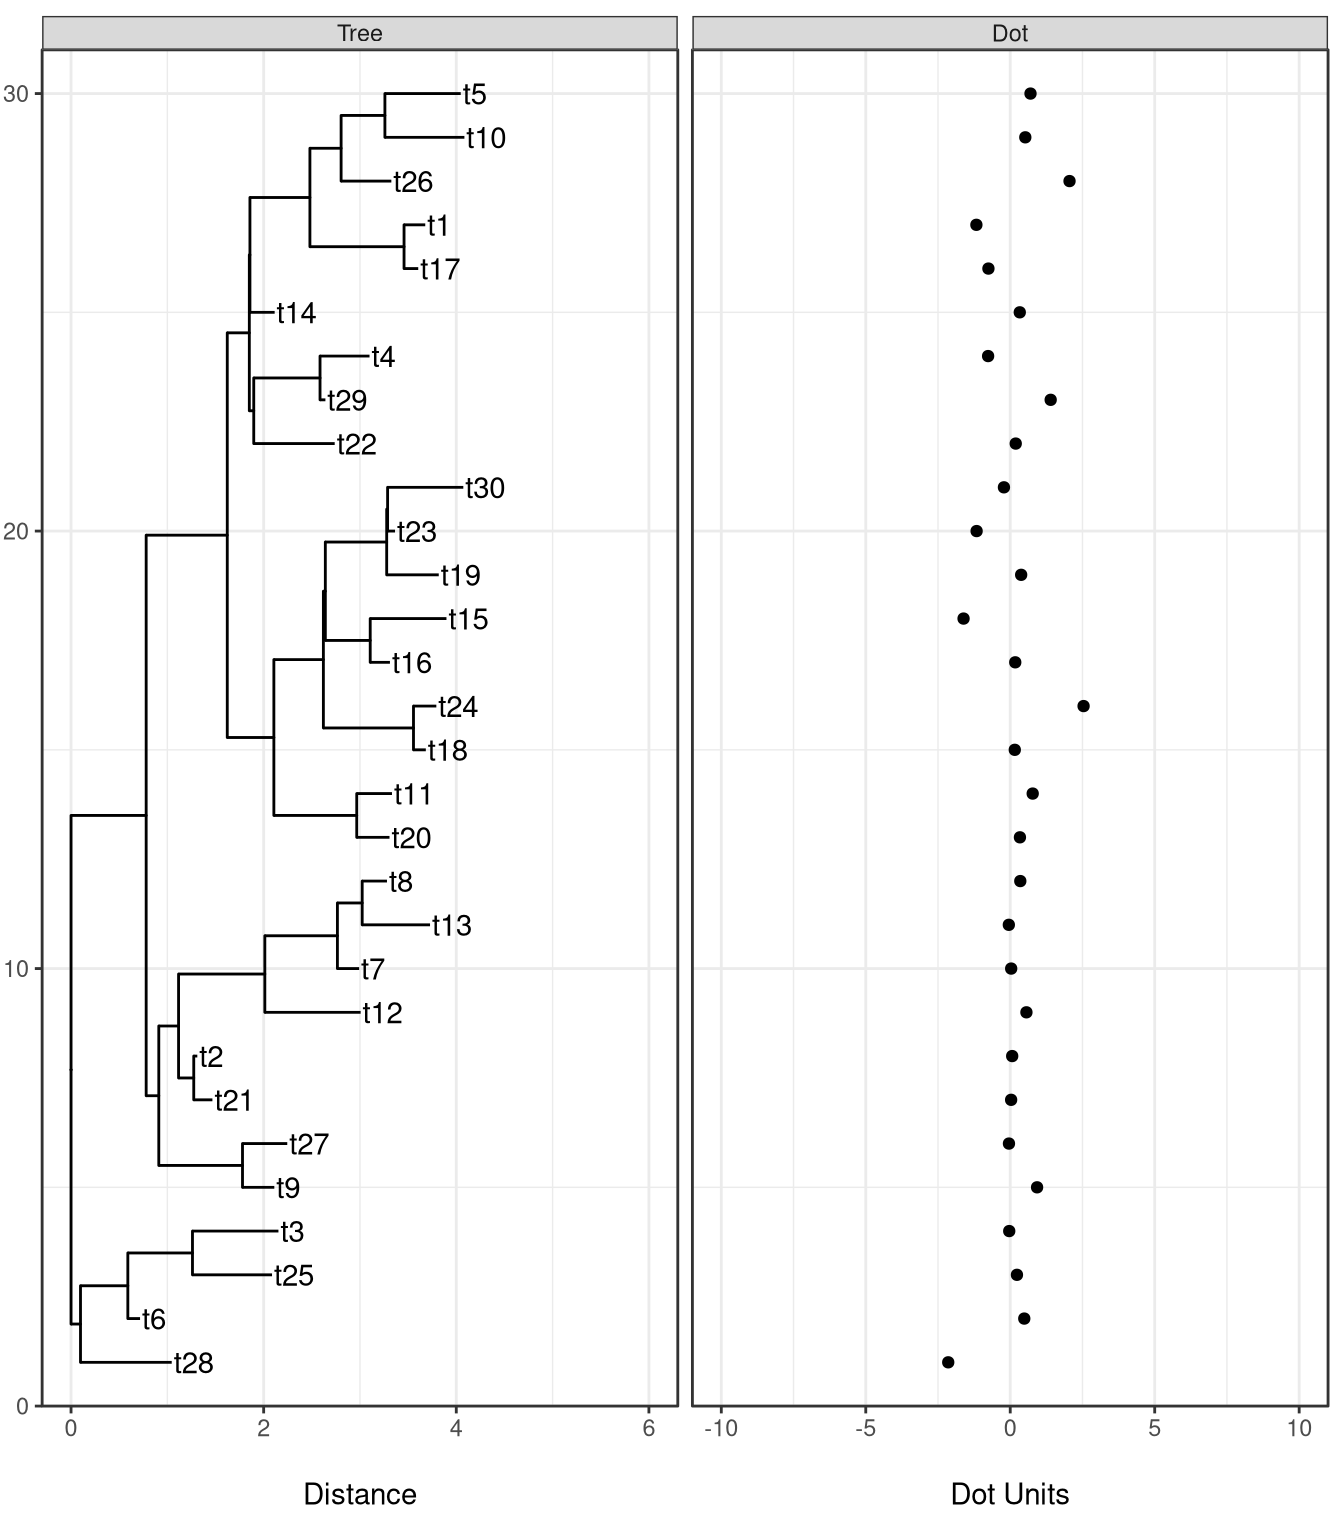
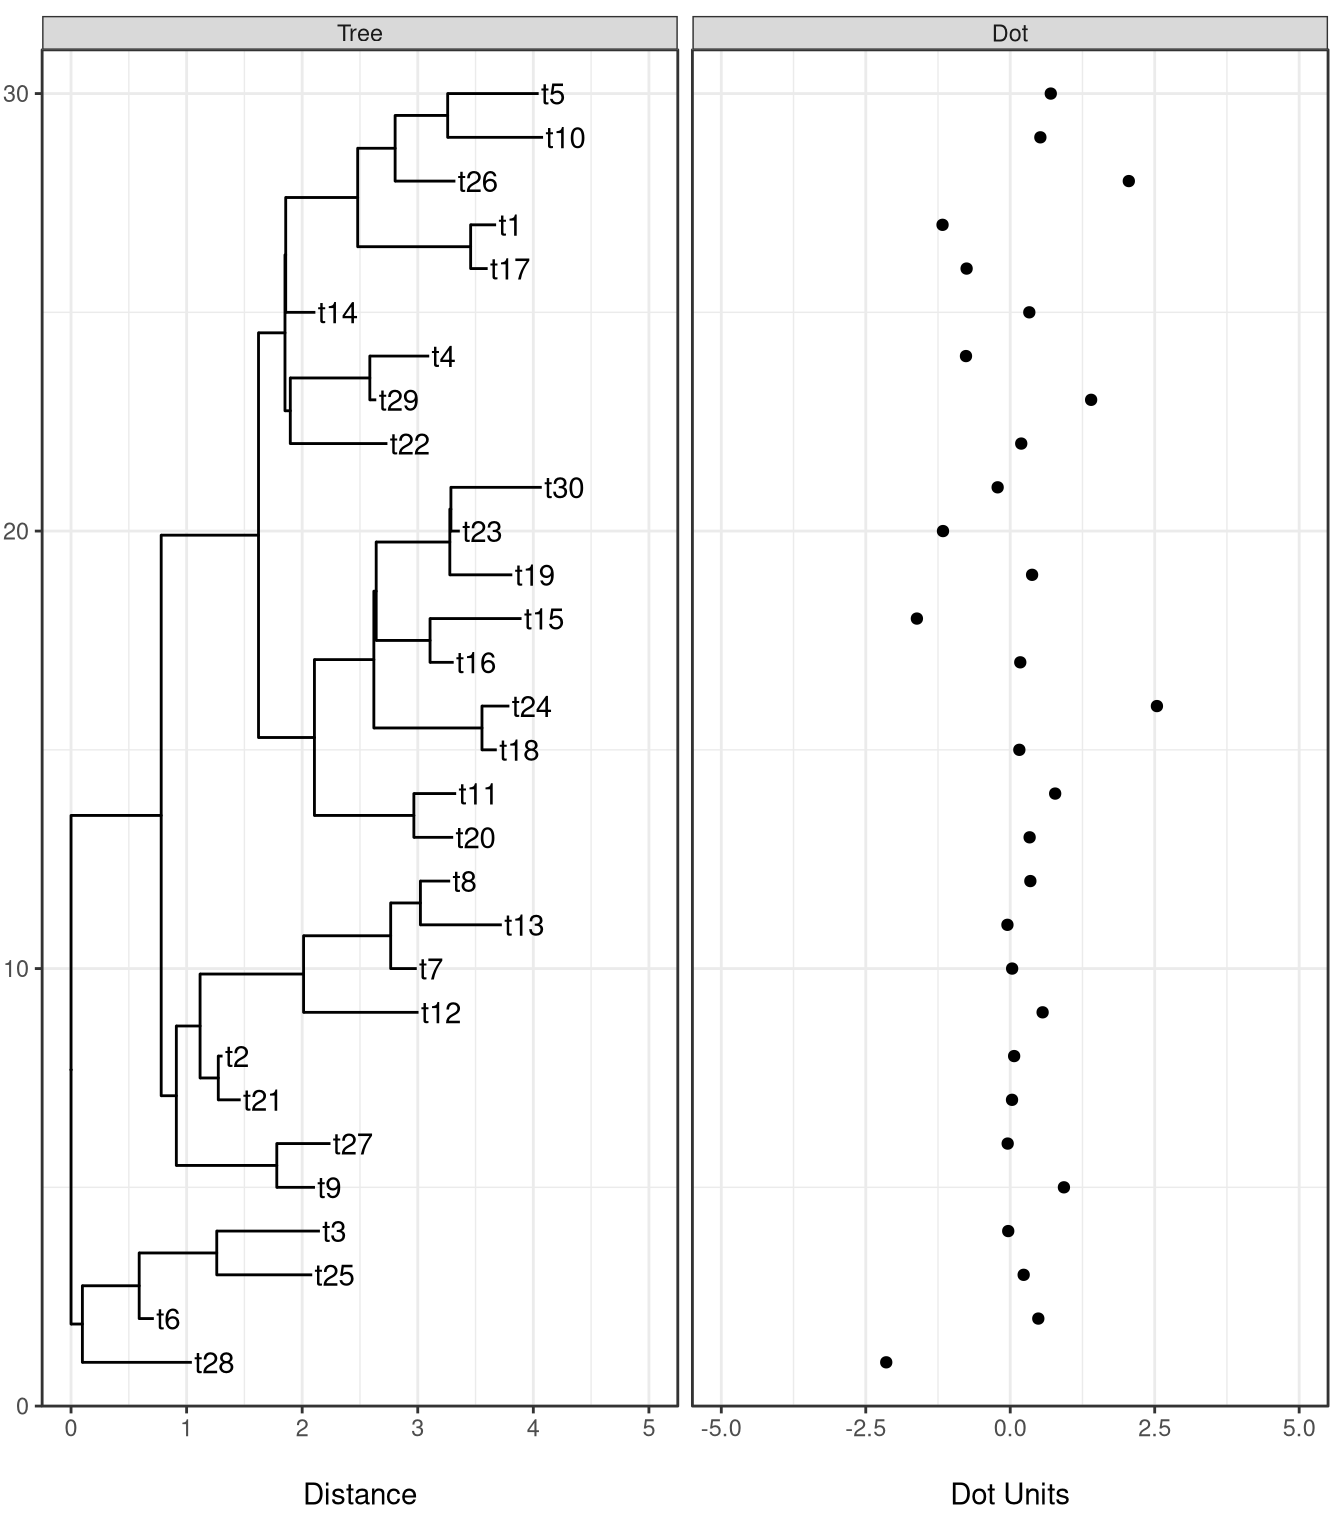
update

diff --git a/docs/faq.html b/docs/faq.html
@@ -537,11 +537,11 @@ Figure A.4: <strong>Repel labels.</strong> Repel labels to avoid overlapping.
 <span id="cb248-9"><a href="faq.html#cb248-9"></a>            <span class="dt">geom =</span> geom_point, <span class="dt">mapping =</span> <span class="kw">aes</span>(<span class="dt">x =</span> value)) </span>
 <span id="cb248-10"><a href="faq.html#cb248-10"></a>            </span>
 <span id="cb248-11"><a href="faq.html#cb248-11"></a>p2 &lt;-<span class="st"> </span>p2 <span class="op">+</span><span class="st"> </span><span class="kw">theme_bw</span>() <span class="op">+</span><span class="st"> </span></span>
-<span id="cb248-12"><a href="faq.html#cb248-12"></a><span class="st">    </span><span class="kw">xlim_tree</span>(<span class="dv">6</span>) <span class="op">+</span><span class="st"> </span><span class="kw">xlim_expand</span>(<span class="kw">c</span>(<span class="op">-</span><span class="dv">10</span>, <span class="dv">10</span>), <span class="st">&#39;Dot&#39;</span>) </span>
+<span id="cb248-12"><a href="faq.html#cb248-12"></a><span class="st">    </span><span class="kw">xlim_tree</span>(<span class="dv">5</span>) <span class="op">+</span><span class="st"> </span><span class="kw">xlim_expand</span>(<span class="kw">c</span>(<span class="op">-</span><span class="dv">5</span>, <span class="dv">5</span>), <span class="st">&#39;Dot&#39;</span>) </span>
 <span id="cb248-13"><a href="faq.html#cb248-13"></a></span>
 <span id="cb248-14"><a href="faq.html#cb248-14"></a>d =<span class="st"> </span><span class="kw">data.frame</span>(<span class="dt">.panel =</span> <span class="kw">c</span>(<span class="st">&#39;Tree&#39;</span>, <span class="st">&#39;Dot&#39;</span>), </span>
 <span id="cb248-15"><a href="faq.html#cb248-15"></a>                <span class="dt">lab =</span> <span class="kw">c</span>(<span class="st">&quot;Distance&quot;</span>, <span class="st">&quot;Dot Units&quot;</span>), </span>
-<span id="cb248-16"><a href="faq.html#cb248-16"></a>                <span class="dt">x=</span><span class="kw">c</span>(<span class="dv">3</span>,<span class="dv">0</span>), <span class="dt">y=</span><span class="op">-</span><span class="dv">2</span>)</span>
+<span id="cb248-16"><a href="faq.html#cb248-16"></a>                <span class="dt">x=</span><span class="kw">c</span>(<span class="fl">2.5</span>,<span class="dv">0</span>), <span class="dt">y=</span><span class="op">-</span><span class="dv">2</span>)</span>
 <span id="cb248-17"><a href="faq.html#cb248-17"></a></span>
 <span id="cb248-18"><a href="faq.html#cb248-18"></a>p2 <span class="op">+</span><span class="st"> </span><span class="kw">scale_y_continuous</span>(<span class="dt">limits=</span><span class="kw">c</span>(<span class="dv">0</span>, <span class="dv">31</span>), </span>
 <span id="cb248-19"><a href="faq.html#cb248-19"></a>                        <span class="dt">expand=</span><span class="kw">c</span>(<span class="dv">0</span>,<span class="dv">0</span>), </span>
